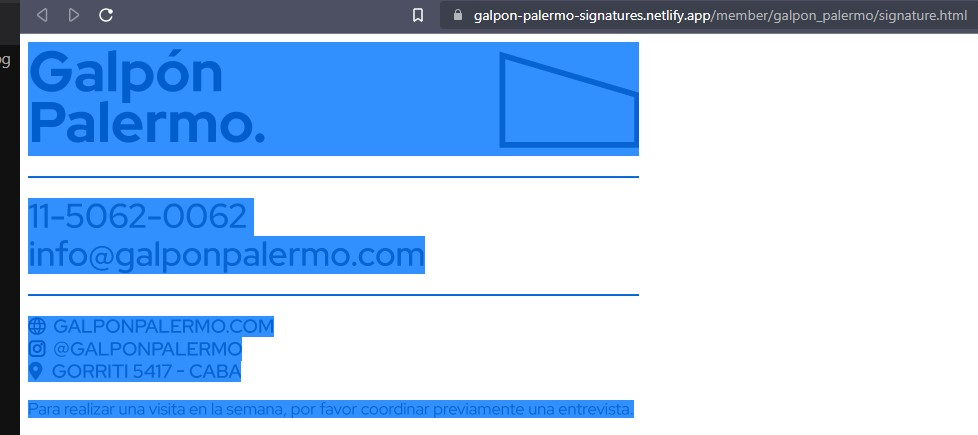
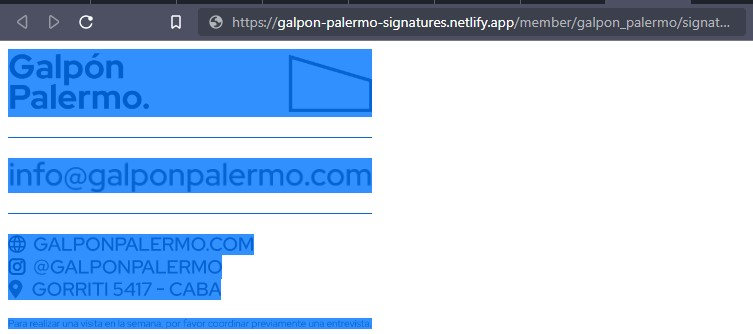
style: Adjust images

diff --git a/member/sofia_theule/signature.html b/member/sofia_theule/signature.html
@@ -2,56 +2,63 @@
   <tbody style="background-color:rgb(255, 255, 255)">
     <tr>
       <td colspan="3">
-        <img src="https://galpon-palermo-signatures.netlify.app/member/sofia_theule/data/name.jpg"
-          alt="Sofía Theulé" />
+        <img src="https://galpon-palermo-signatures.netlify.app/member/sofia_theule/data/name.jpg" alt="Sofía Theulé"
+          style="max-width: 65%;" />
       </td>
     </tr>
 
     <td>
       <div style="margin: 20px 0;">
-        <img src="https://galpon-palermo-signatures.netlify.app/assets/template/member/line.jpg" />
+        <img src="https://galpon-palermo-signatures.netlify.app/assets/template/member/line.jpg"
+          style="max-width: 65%;" />
       </div>
     </td>
 
     <tr>
       <td colspan="3">
         <a href="tel:+5491150620062" target="_blank">
-          <img src="https://galpon-palermo-signatures.netlify.app/member/sofia_theule/data/phone.jpg" alt="11-5062-0062" />
+          <img src="https://galpon-palermo-signatures.netlify.app/member/sofia_theule/data/phone.jpg" alt="11-5062-0062"
+            style="max-width: 65%;" />
         </a>
       </td>
     </tr>
     <tr>
       <td colspan="3">
         <a href="mailto:info@galponpalermo.com" target="_blank">
-          <img src="https://galpon-palermo-signatures.netlify.app/member/sofia_theule/data/email.jpg" alt="info@galponpalermo.com" />
+          <img src="https://galpon-palermo-signatures.netlify.app/member/sofia_theule/data/email.jpg"
+            alt="info@galponpalermo.com" style="max-width: 65%;" />
         </a>
       </td>
     </tr>
 
     <td>
       <div style="margin: 20px 0;">
-        <img src="https://galpon-palermo-signatures.netlify.app/assets/template/member/line.jpg" />
+        <img src="https://galpon-palermo-signatures.netlify.app/assets/template/member/line.jpg"
+          style="max-width: 65%;" />
       </div>
     </td>
 
     <tr>
       <td colspan="3">
         <a href="https://galponpalermo.com/" target="_blank">
-          <img src="https://galpon-palermo-signatures.netlify.app/assets/template/member/website.jpg" alt="https://galponpalermo.com/" />
+          <img src="https://galpon-palermo-signatures.netlify.app/assets/template/member/website.jpg"
+            alt="https://galponpalermo.com/" style="max-width: 65%;" />
         </a>
       </td>
     </tr>
     <tr>
       <td colspan="3">
         <a href="https://www.instagram.com/galponpalermo" target="_blank">
-          <img src="https://galpon-palermo-signatures.netlify.app/assets/template/member/instagram.jpg" alt="@galponpalermo" />
+          <img src="https://galpon-palermo-signatures.netlify.app/assets/template/member/instagram.jpg"
+            alt="@galponpalermo" style="max-width: 65%;" />
         </a>
       </td>
     </tr>
     <tr>
       <td colspan="3">
         <a href="https://goo.gl/maps/eFNgUHwFVUzQSAE98" target="_blank">
-          <img src="https://galpon-palermo-signatures.netlify.app/assets/template/member/address.jpg" alt="GORRITI 5417 - CABA" />
+          <img src="https://galpon-palermo-signatures.netlify.app/assets/template/member/address.jpg"
+            alt="GORRITI 5417 - CABA" style="max-width: 65%;" />
         </a>
       </td>
     </tr>
@@ -63,7 +70,8 @@
     <tr>
       <td colspan="12">
         <img src="https://galpon-palermo-signatures.netlify.app/assets/template/member/footer.jpg"
-          alt="Para realizar una visita en la semana, por favor coodinar previamente una entrevista." />
+          alt="Para realizar una visita en la semana, por favor coodinar previamente una entrevista."
+          style="max-width: 65%;" />
       </td>
     </tr>
   </tbody>

diff --git a/member/galpon_palermo_no_phone/signature.html b/member/galpon_palermo_no_phone/signature.html
@@ -1,50 +1,56 @@
-<table border="0" cellpadding="0" cellspacing="0" width="611" style="display:inline-table">
+<table border="0" cellpadding="0" cellspacing="0" width="400" style="display:inline-table">
   <tbody style="background-color:rgb(255, 255, 255)">
     <tr>
       <td colspan="3">
         <img src="https://galpon-palermo-signatures.netlify.app/member/galpon_palermo_no_phone/data/name.jpg"
-          alt="Galpón Palermo" />
+          alt="Galpón Palermo" style="max-width: 65%;" />
       </td>
     </tr>
 
     <td>
       <div style="margin: 20px 0;">
-        <img src="https://galpon-palermo-signatures.netlify.app/assets/template/member/line.jpg" />
+        <img src="https://galpon-palermo-signatures.netlify.app/assets/template/member/line.jpg"
+          style="max-width: 65%;" />
       </div>
     </td>
 
     <tr>
       <td colspan="3">
         <a href="mailto:info@galponpalermo.com" target="_blank">
-          <img src="https://galpon-palermo-signatures.netlify.app/member/galpon_palermo_no_phone/data/email.jpg" alt="info@galponpalermo.com" />
+          <img src="https://galpon-palermo-signatures.netlify.app/member/galpon_palermo_no_phone/data/email.jpg"
+            alt="info@galponpalermo.com" style="max-width: 65%;" />
         </a>
       </td>
     </tr>
 
     <td>
       <div style="margin: 20px 0;">
-        <img src="https://galpon-palermo-signatures.netlify.app/assets/template/member/line.jpg" />
+        <img src="https://galpon-palermo-signatures.netlify.app/assets/template/member/line.jpg"
+          style="max-width: 65%;" />
       </div>
     </td>
 
     <tr>
       <td colspan="3">
         <a href="https://galponpalermo.com/" target="_blank">
-          <img src="https://galpon-palermo-signatures.netlify.app/assets/template/member/website.jpg" alt="https://galponpalermo.com/" />
+          <img src="https://galpon-palermo-signatures.netlify.app/assets/template/member/website.jpg"
+            alt="https://galponpalermo.com/" style="max-width: 65%;" />
         </a>
       </td>
     </tr>
     <tr>
       <td colspan="3">
         <a href="https://www.instagram.com/galponpalermo" target="_blank">
-          <img src="https://galpon-palermo-signatures.netlify.app/assets/template/member/instagram.jpg" alt="@galponpalermo" />
+          <img src="https://galpon-palermo-signatures.netlify.app/assets/template/member/instagram.jpg"
+            alt="@galponpalermo" style="max-width: 65%;" />
         </a>
       </td>
     </tr>
     <tr>
       <td colspan="3">
         <a href="https://goo.gl/maps/eFNgUHwFVUzQSAE98" target="_blank">
-          <img src="https://galpon-palermo-signatures.netlify.app/assets/template/member/address.jpg" alt="GORRITI 5417 - CABA" />
+          <img src="https://galpon-palermo-signatures.netlify.app/assets/template/member/address.jpg"
+            alt="GORRITI 5417 - CABA" style="max-width: 65%;" />
         </a>
       </td>
     </tr>
@@ -56,7 +62,8 @@
     <tr>
       <td colspan="12">
         <img src="https://galpon-palermo-signatures.netlify.app/assets/template/member/footer.jpg"
-          alt="Para realizar una visita en la semana, por favor coodinar previamente una entrevista." />
+          alt="Para realizar una visita en la semana, por favor coodinar previamente una entrevista."
+          style="max-width: 65%;" />
       </td>
     </tr>
   </tbody>

diff --git a/member/flor_azqueta/signature.html b/member/flor_azqueta/signature.html
@@ -2,13 +2,13 @@
   <tbody style="background-color:rgb(255, 255, 255)">
     <tr>
       <td colspan="3">
-        <img src="https://galpon-palermo-signatures.netlify.app/member/flor_azqueta/data/name.jpg" alt="Flor Azqueta" />
+        <img src="https://galpon-palermo-signatures.netlify.app/member/flor_azqueta/data/name.jpg" alt="Flor Azqueta" style="max-width: 65%;" />
       </td>
     </tr>
 
     <td>
       <div style="margin: 20px 0;">
-        <img src="https://galpon-palermo-signatures.netlify.app/assets/template/member/line.jpg" />
+        <img src="https://galpon-palermo-signatures.netlify.app/assets/template/member/line.jpg" style="max-width: 65%;" />
       </div>
     </td>
 
@@ -16,7 +16,7 @@
       <td colspan="3">
         <a href="tel:+5491150620062" target="_blank">
           <img src="https://galpon-palermo-signatures.netlify.app/member/flor_azqueta/data/phone.jpg"
-            alt="11-5062-0062" />
+            alt="11-5062-0062" style="max-width: 65%;" />
         </a>
       </td>
     </tr>
@@ -24,14 +24,14 @@
       <td colspan="3">
         <a href="mailto:info@galponpalermo.com" target="_blank">
           <img src="https://galpon-palermo-signatures.netlify.app/member/flor_azqueta/data/email.jpg"
-            alt="info@galponpalermo.com" />
+            alt="info@galponpalermo.com" style="max-width: 65%;" />
         </a>
       </td>
     </tr>
 
     <td>
       <div style="margin: 20px 0;">
-        <img src="https://galpon-palermo-signatures.netlify.app/assets/template/member/line.jpg" />
+        <img src="https://galpon-palermo-signatures.netlify.app/assets/template/member/line.jpg" style="max-width: 65%;" />
       </div>
     </td>
 
@@ -39,7 +39,7 @@
       <td colspan="3">
         <a href="https://galponpalermo.com/" target="_blank">
           <img src="https://galpon-palermo-signatures.netlify.app/assets/template/member/website.jpg"
-            alt="https://galponpalermo.com/" />
+            alt="https://galponpalermo.com/" style="max-width: 65%;" />
         </a>
       </td>
     </tr>
@@ -47,7 +47,7 @@
       <td colspan="3">
         <a href="https://www.instagram.com/galponpalermo" target="_blank">
           <img src="https://galpon-palermo-signatures.netlify.app/assets/template/member/instagram.jpg"
-            alt="@galponpalermo" />
+            alt="@galponpalermo" style="max-width: 65%;" />
         </a>
       </td>
     </tr>
@@ -55,7 +55,7 @@
       <td colspan="3">
         <a href="https://goo.gl/maps/eFNgUHwFVUzQSAE98" target="_blank">
           <img src="https://galpon-palermo-signatures.netlify.app/assets/template/member/address.jpg"
-            alt="GORRITI 5417 - CABA" />
+            alt="GORRITI 5417 - CABA" style="max-width: 65%;" />
         </a>
       </td>
     </tr>
@@ -67,7 +67,7 @@
     <tr>
       <td colspan="12">
         <img src="https://galpon-palermo-signatures.netlify.app/assets/template/member/footer.jpg"
-          alt="Para realizar una visita en la semana, por favor coodinar previamente una entrevista." />
+          alt="Para realizar una visita en la semana, por favor coodinar previamente una entrevista." style="max-width: 65%;" />
       </td>
     </tr>
   </tbody>

diff --git a/member/galpon_palermo/signature.html b/member/galpon_palermo/signature.html
@@ -3,13 +3,13 @@
     <tr>
       <td colspan="3">
         <img src="https://galpon-palermo-signatures.netlify.app/member/galpon_palermo/data/name.jpg"
-          alt="Galpón Palermo" />
+          alt="Galpón Palermo" style="max-width: 65%;" />
       </td>
     </tr>
 
     <td>
       <div style="margin: 20px 0;">
-        <img src="https://galpon-palermo-signatures.netlify.app/assets/template/member/line.jpg" />
+        <img src="https://galpon-palermo-signatures.netlify.app/assets/template/member/line.jpg" style="max-width: 65%;" />
       </div>
     </td>
 
@@ -17,7 +17,7 @@
       <td colspan="3">
         <a href="tel:+5491150620062" target="_blank">
           <img src="https://galpon-palermo-signatures.netlify.app/member/galpon_palermo/data/phone.jpg"
-            alt="11-5062-0062" />
+            alt="11-5062-0062" style="max-width: 65%;" />
         </a>
       </td>
     </tr>
@@ -25,14 +25,14 @@
       <td colspan="3">
         <a href="mailto:info@galponpalermo.com" target="_blank">
           <img src="https://galpon-palermo-signatures.netlify.app/member/galpon_palermo/data/email.jpg"
-            alt="info@galponpalermo.com" />
+            alt="info@galponpalermo.com" style="max-width: 65%;" />
         </a>
       </td>
     </tr>
 
     <td>
       <div style="margin: 20px 0;">
-        <img src="https://galpon-palermo-signatures.netlify.app/assets/template/member/line.jpg" />
+        <img src="https://galpon-palermo-signatures.netlify.app/assets/template/member/line.jpg" style="max-width: 65%;" />
       </div>
     </td>
 
@@ -40,7 +40,7 @@
       <td colspan="3">
         <a href="https://galponpalermo.com/" target="_blank">
           <img src="https://galpon-palermo-signatures.netlify.app/assets/template/member/website.jpg"
-            alt="https://galponpalermo.com/" />
+            alt="https://galponpalermo.com/" style="max-width: 65%;" />
         </a>
       </td>
     </tr>
@@ -48,7 +48,7 @@
       <td colspan="3">
         <a href="https://www.instagram.com/galponpalermo" target="_blank">
           <img src="https://galpon-palermo-signatures.netlify.app/assets/template/member/instagram.jpg"
-            alt="@galponpalermo" />
+            alt="@galponpalermo" style="max-width: 65%;" />
         </a>
       </td>
     </tr>
@@ -56,7 +56,7 @@
       <td colspan="3">
         <a href="https://goo.gl/maps/eFNgUHwFVUzQSAE98" target="_blank">
           <img src="https://galpon-palermo-signatures.netlify.app/assets/template/member/address.jpg"
-            alt="GORRITI 5417 - CABA" />
+            alt="GORRITI 5417 - CABA" style="max-width: 65%;" />
         </a>
       </td>
     </tr>
@@ -68,7 +68,7 @@
     <tr>
       <td colspan="12">
         <img src="https://galpon-palermo-signatures.netlify.app/assets/template/member/footer.jpg"
-          alt="Para realizar una visita en la semana, por favor coodinar previamente una entrevista." />
+          alt="Para realizar una visita en la semana, por favor coodinar previamente una entrevista." style="max-width: 65%;" />
       </td>
     </tr>
   </tbody>
